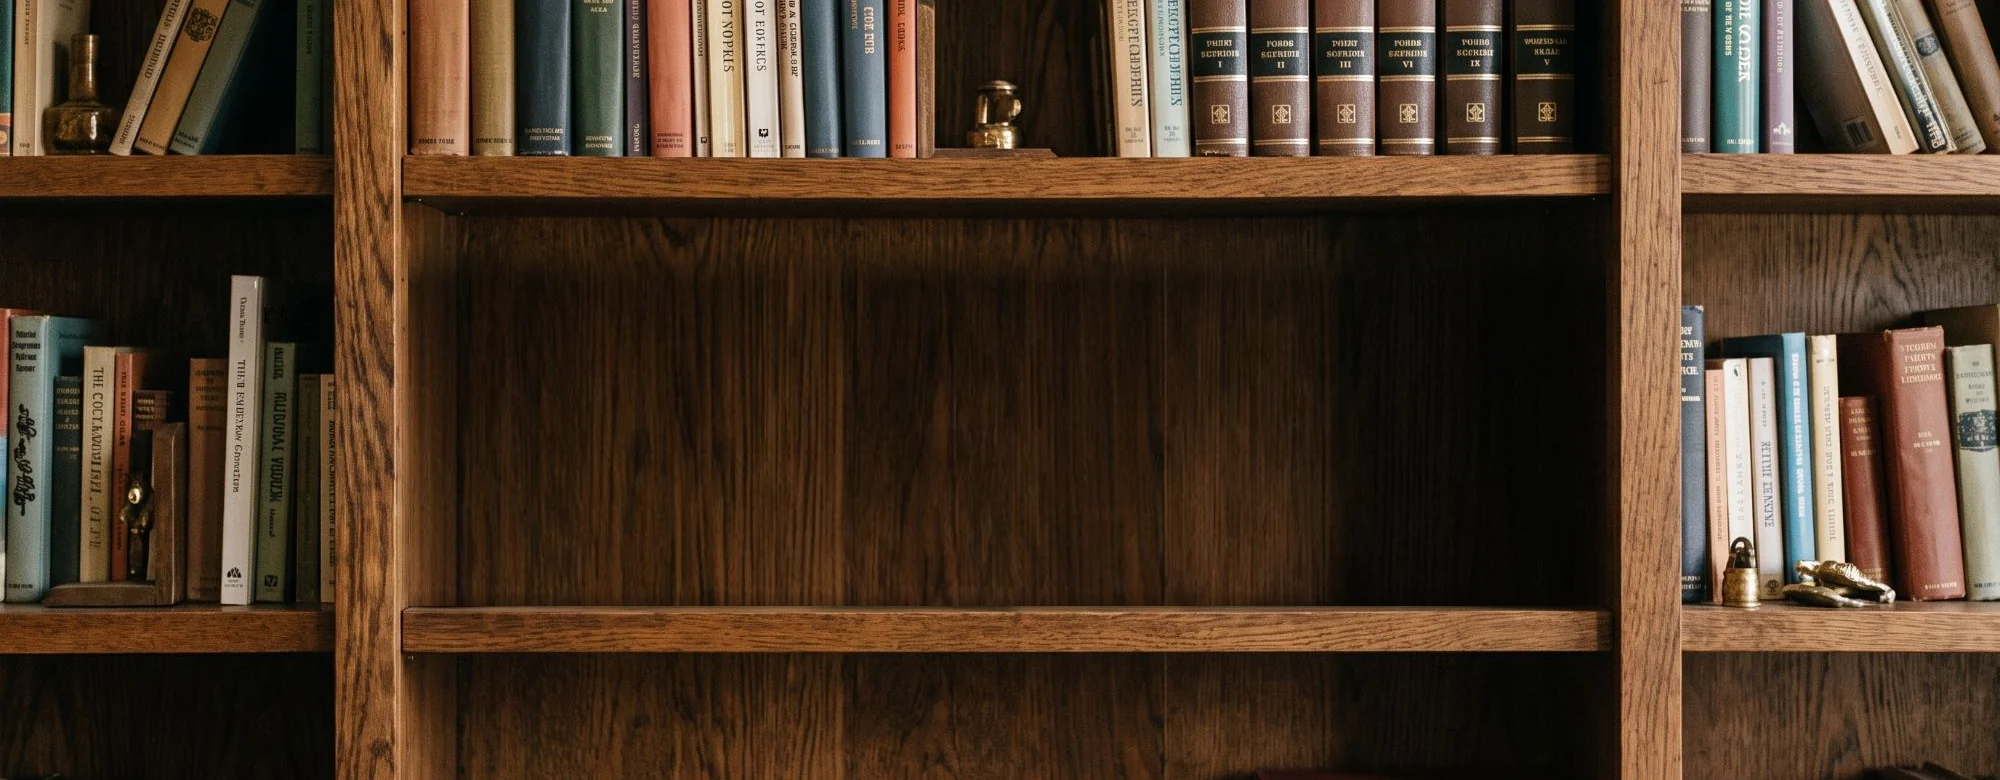
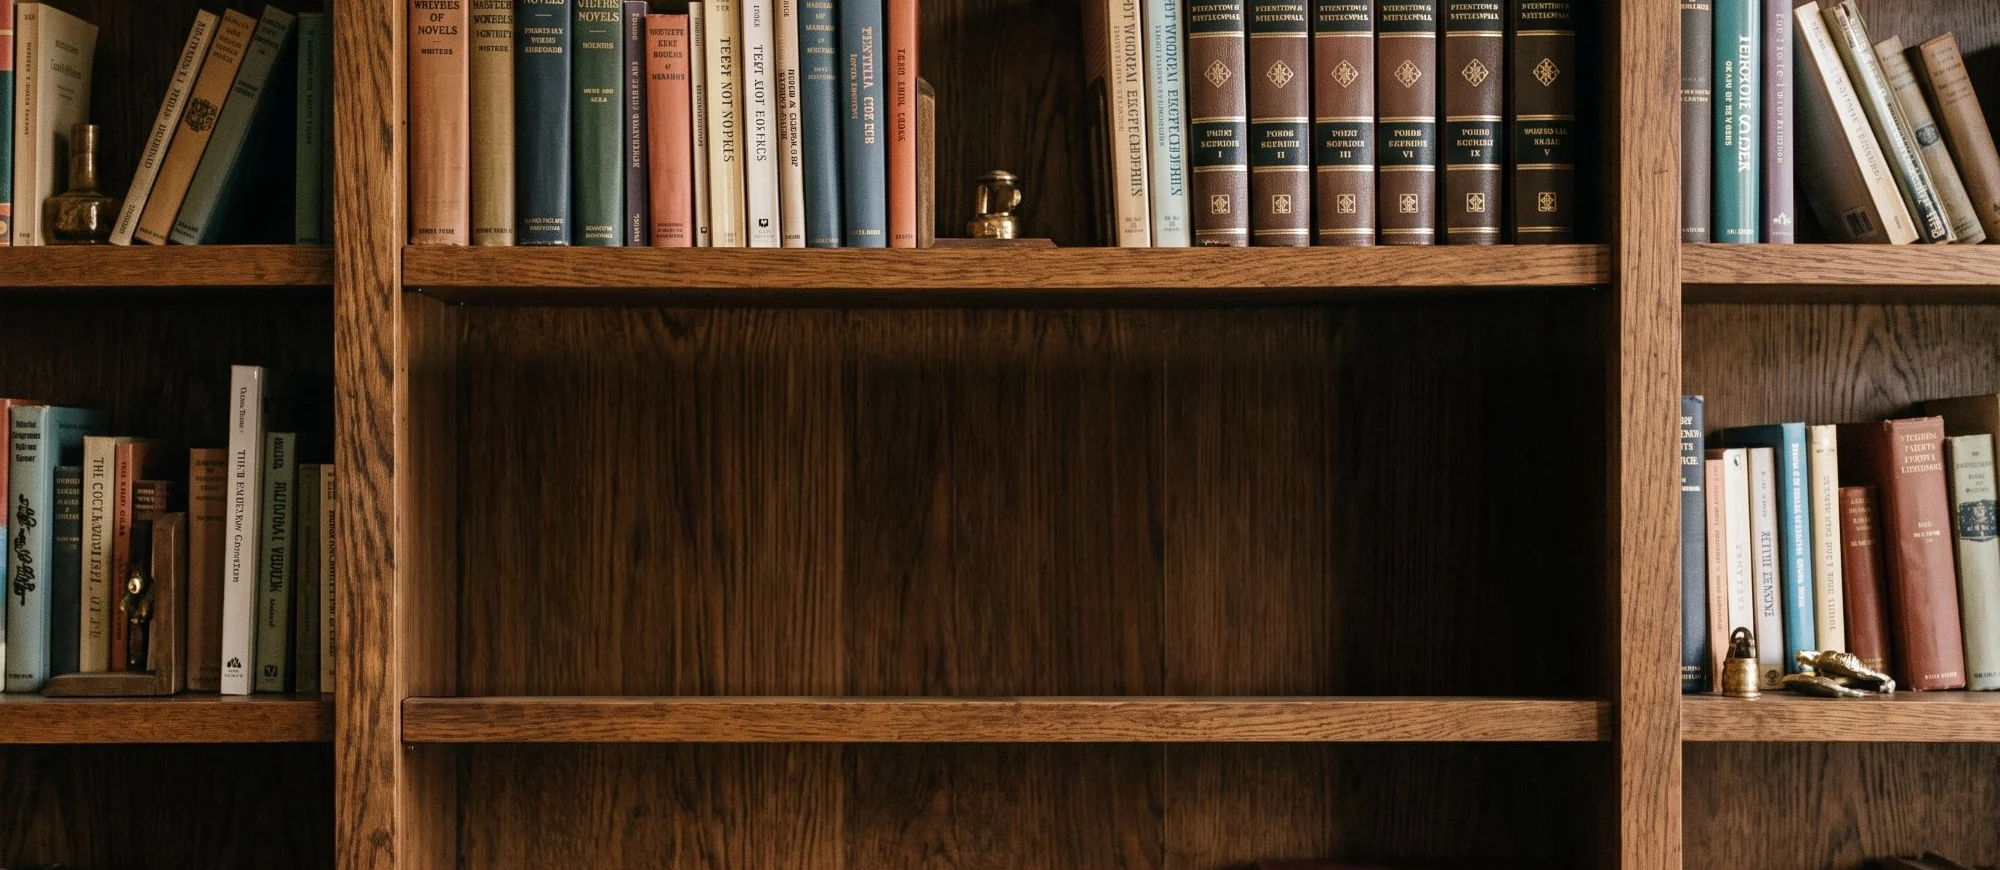
Library: no bar, a heavy vignette instead; grammar hero wash made light
Library: the gold strip goes again; the row floats in cream over the case,
which is darkened hard at its edges and top, the six books left in the
light. The case is re-cropped with more of the shelf above, so the carved
'Lesson Library' rail sits clear of the row at every width.

Grammar: the pale wash over the chart is cut to about half; the hero's
words carry a soft pale halo instead.

diff --git a/library.html b/library.html
@@ -860,12 +860,11 @@
   /* "Lesson Library" carved into the rail above the six books (Innes,
      2026-10-19: engraved in the wood, not a plate): dark letters cut into
      the wood, catching the light on their lower edge. The rail's front
-     sits at 20.5-25.3% of the shelf picture's height; the picture is the
-     shelf's width (at least 760px) times 780/2000, so its centre line is
-     0.0889 of that width down. */
+     is centred 268px down the 2000 x 870 shelf picture, so 0.1342 of the
+     shelf's width (at least 760px): clear of the top line at every width. */
   .hero-tag {
     --shelf-w: max(760px, min(100vw, 2000px));
-    position: absolute; top: calc(var(--shelf-w) * 0.0889); left: 50%; transform: translate(-50%, -50%);
+    position: absolute; top: calc(var(--shelf-w) * 0.1342); left: 50%; transform: translate(-50%, -50%);
     margin: 0; z-index: 4; padding: 0; border-radius: 0; background: none; box-shadow: none; white-space: nowrap;
     font: 700 calc(var(--shelf-w) * 0.0102)/1 'Playfair Display', Georgia, serif;
     letter-spacing: 0.34em; text-transform: uppercase;
@@ -896,7 +895,7 @@
     display: flex; justify-content: center; align-items: flex-end; gap: 0.3cqw;
     position: relative; margin: 0 auto; padding: 0;
     width: 100%; min-width: 760px; max-width: 2000px;
-    aspect-ratio: 2000 / 780;
+    aspect-ratio: 2000 / 870;
     background: url('library-hub/bookcase-photo.webp') center / 100% 100% no-repeat;
   }
   .hubs.hubs::after { display: none; }
@@ -1016,14 +1015,14 @@
 header { position: absolute; top: 0; left: 0; right: 0; z-index: 40; background: none; border: 0; box-shadow: none; }
 header .header-inner { max-width: none; margin: 0; padding: clamp(16px, 3vh, 30px) clamp(16px, 3vw, 40px);
   display: flex; align-items: center; justify-content: space-between; gap: 20px; }
-header .fe-logo-svg { width: clamp(84px, 7vw, 108px); height: auto; color: #fff6e2; filter: drop-shadow(0 0 0 transparent); }
-header .fe-logo-en { fill: #3a2410; }
+header .fe-logo-svg { width: clamp(84px, 7vw, 108px); height: auto; color: #f6ead2; filter: drop-shadow(0 0 6px rgba(10, 6, 2, 0.6)); }
+header .fe-logo-en { fill: #f7ba57; }
 header .nav-links { display: flex; align-items: center; justify-content: flex-end; flex-wrap: nowrap; gap: clamp(12px, 1.8vw, 24px); margin: 0; }
 header .nav-links .nav-pill { font-family: 'Barlow Condensed', sans-serif; font-weight: 600; letter-spacing: 0.08em; text-transform: uppercase;
-  font-size: 14.5px; line-height: 1; color: rgba(36, 22, 13, 0.82); opacity: 1; text-decoration: none; white-space: nowrap;
+  font-size: 14.5px; line-height: 1; color: rgba(246, 234, 210, 0.8); opacity: 1; text-decoration: none; white-space: nowrap;
   background: none; border: 0; border-radius: 0; padding: 0; box-shadow: none; transition: color .2s ease;
-  text-shadow: none; }   /* a soft halo, so the words read over a busy picture */
-header .nav-links .nav-pill:hover, header .nav-links .nav-pill[aria-current] { color: #24160d; background: none; }
+  text-shadow: 0 0 6px rgba(10, 6, 2, 0.75), 0 0 14px rgba(10, 6, 2, 0.5); }   /* a soft halo, so the words read over a busy picture */
+header .nav-links .nav-pill:hover, header .nav-links .nav-pill[aria-current] { color: #f6ead2; background: none; }
 header .nav-links .nav-pill.gold { color: #040c20; background: #f7ba57; padding: 6px 14px; border-radius: 20px; font-weight: 700; border: 0; text-shadow: none; }
 header .nav-links .nav-pill.gold:hover { color: #040c20; background: #f6ead2; }
 @media (min-width: 1101px) {
@@ -1045,8 +1044,11 @@ header + :has(> .gh-hero:first-child, > .ih-hero:first-child, > .rh-hero:first-c
 /* a phone keeps Library and Go Pro, as the front page does */
 @media (max-width: 620px) { header .nav-links .nav-pill[href="library.html"] { display: inline-block; } }
 header { padding: 0; }
-html body header { position: relative; background: linear-gradient(180deg, #b8902f, #9a741c); border-bottom: 1px solid #6b4d12; }
 header + .hero { border-top: 0; }
+.hubs.hubs::before { content: ""; position: absolute; inset: 0; z-index: 0; pointer-events: none;
+  background: linear-gradient(180deg, rgba(12, 6, 2, 0.88) 0, rgba(12, 6, 2, 0.4) 11%, transparent 22%),
+    radial-gradient(ellipse 62% 70% at 50% 58%, transparent 38%, rgba(12, 6, 2, 0.62) 78%, rgba(12, 6, 2, 0.9) 100%); }
+.hubs .hub { z-index: 1; }
 </style>
 </head>
 <body>

diff --git a/grammar.html b/grammar.html
@@ -327,10 +327,17 @@ body.gh {
 .gh-hero-art.is-3d .gh-hero-img { opacity: 0; transition: opacity 1.4s ease; }
 .gh-hero::after {
   content: ''; position: absolute; inset: 0; z-index: -1;
+  /* a light wash only (Innes, 2026-10-19: the heavy one was overkill); the
+     words carry a soft pale halo instead */
   background: linear-gradient(90deg,
-    color-mix(in srgb, var(--gh-sky) 72%, transparent) 0%,
-    color-mix(in srgb, var(--gh-sky) 55%, transparent) 42%,
-    transparent 70%);
+    color-mix(in srgb, var(--gh-sky) 36%, transparent) 0%,
+    color-mix(in srgb, var(--gh-sky) 22%, transparent) 38%,
+    transparent 58%);
+}
+@media (min-width: 881px) {
+  .gh-hero-copy .gh-kicker, .gh-hero-copy .gh-h1, .gh-hero-copy .gh-lede, .gh-hero-copy .gh-stats, .gh-hero-copy .gh-sail, .gh-hero-copy .gh-plans {
+    text-shadow: 0 0 6px rgba(255, 252, 244, 0.9), 0 0 18px rgba(255, 252, 244, 0.65);
+  }
 }
 .gh-hero-in {
   width: 100%; max-width: var(--gh-max); margin: 0 auto;

diff --git a/tools/build_grammar_hub.py b/tools/build_grammar_hub.py
@@ -506,10 +506,17 @@ body.gh {
 .gh-hero-art.is-3d .gh-hero-img { opacity: 0; transition: opacity 1.4s ease; }
 .gh-hero::after {
   content: ''; position: absolute; inset: 0; z-index: -1;
+  /* a light wash only (Innes, 2026-10-19: the heavy one was overkill); the
+     words carry a soft pale halo instead */
   background: linear-gradient(90deg,
-    color-mix(in srgb, var(--gh-sky) 72%%, transparent) 0%%,
-    color-mix(in srgb, var(--gh-sky) 55%%, transparent) 42%%,
-    transparent 70%%);
+    color-mix(in srgb, var(--gh-sky) 36%%, transparent) 0%%,
+    color-mix(in srgb, var(--gh-sky) 22%%, transparent) 38%%,
+    transparent 58%%);
+}
+@media (min-width: 881px) {
+  .gh-hero-copy .gh-kicker, .gh-hero-copy .gh-h1, .gh-hero-copy .gh-lede, .gh-hero-copy .gh-stats, .gh-hero-copy .gh-sail, .gh-hero-copy .gh-plans {
+    text-shadow: 0 0 6px rgba(255, 252, 244, 0.9), 0 0 18px rgba(255, 252, 244, 0.65);
+  }
 }
 .gh-hero-in {
   width: 100%%; max-width: var(--gh-max); margin: 0 auto;

diff --git a/tools/make_library_shelf.py b/tools/make_library_shelf.py
@@ -20,7 +20,7 @@ src = Image.open(sys.argv[1]).convert('RGB')
 out = sys.argv[2]
 X0, X1 = 408, 1606          # the middle bay, inside its uprights
 WALL, SHELF = 432, 756      # where the books' tops begin; the shelf they stand on
-CROP = (0, 150, 2000, 930)  # the whole case, a shelf above and below
+CROP = (0, 60, 2000, 930)   # the whole case: more of the shelf above, so its rail sits clear of the top line
 
 # the wall: the same panelling, clean, from under the middle shelf (its grain
 # runs upright, so it stretches upright without showing), feathered into the
